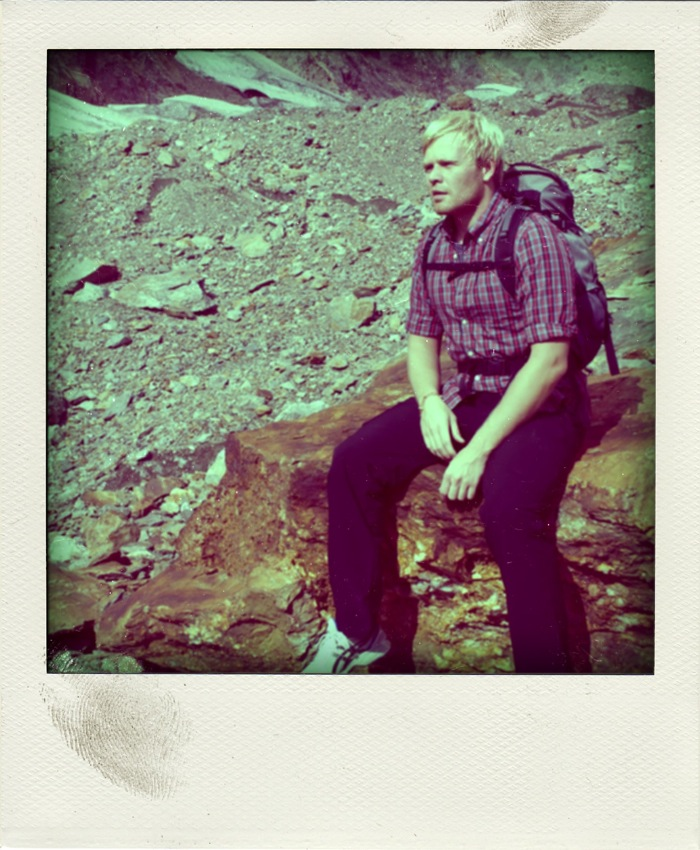
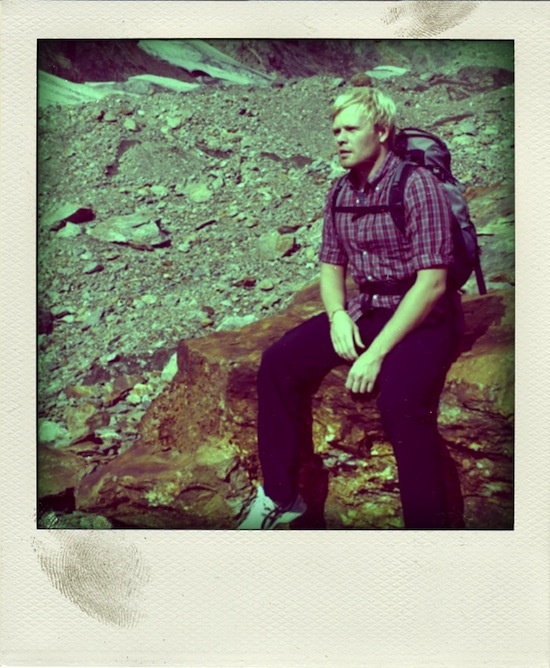
resized polaroids and added missing stylesheet

Changed region(s): [[0.0618, 0.0898, 0.9582, 0.7784], [0.8036, 0.5389, 0.8964, 0.7186], [0.8345, 0.3892, 0.8964, 0.4491]]

diff --git a/index.html b/index.html
@@ -9,9 +9,9 @@
   <title>Ole Weidner</title>
   <link href="http://github.com/stylesheets/bundle_common.css" media="screen" rel="stylesheet" type="text/css" />
   <link href="http://github.com/stylesheets/bundle_github.css" media="screen" rel="stylesheet" type="text/css" />
-  <link href="/stylesheets/screen.css" media="screen" rel="stylesheet" type="text/css" />
-
-  <link type="text/css" media="screen" rel="stylesheet" href="css/colorbox.css" />
+  
+  <link href="./css/screen.css"   media="screen" rel="stylesheet" type="text/css" />
+  <link href="./css/colorbox.css" media="screen" rel="stylesheet" type="text/css" />
   
   <script type="text/javascript" src="http://ajax.googleapis.com/ajax/libs/jquery/1.3.2/jquery.min.js"></script>
   <script type="text/javascript" src="js/jquery.colorbox.js"></script>

diff --git a/css/screen.css b/css/screen.css
@@ -1,0 +1,7 @@
+.site {
+  width: 60em;
+}
+
+#content.site {
+  width: 59em;
+}
